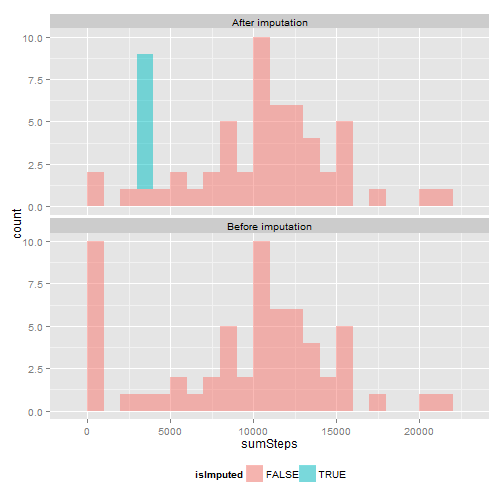
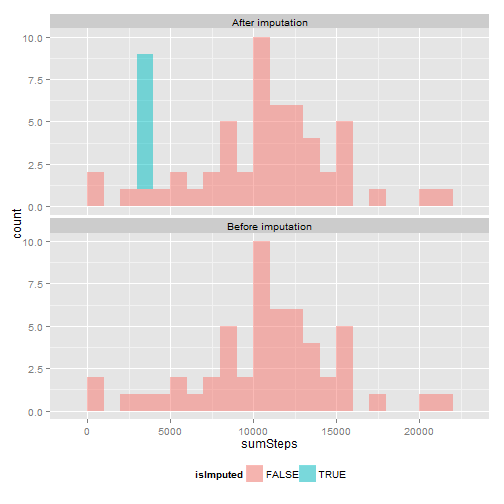
Fix treatment of missing values

Changed region(s): [[0.1488, 0.4762, 0.2083, 0.7738]]

diff --git a/PA1_template.html b/PA1_template.html
@@ -369,9 +369,19 @@ the dataset.</p>
 </blockquote>
 
 <p>Aggregate the number of steps taken each day.
-Ignore the missing values.</p>
+Days with missing values (<code>NA</code>) will have <code>NA</code> when aggregated.</p>
 
-<pre><code class="r">dtDaily &lt;- dt[, list(sumSteps = sum(steps, na.rm = TRUE)), date]
+<pre><code class="r">dtDaily &lt;- dt[, list(sumSteps = sum(steps)), date]
+head(dtDaily)
+</code></pre>
+
+<pre><code>##          date sumSteps
+## 1: 2012-10-01       NA
+## 2: 2012-10-02      126
+## 3: 2012-10-03    11352
+## 4: 2012-10-04    12116
+## 5: 2012-10-05    13294
+## 6: 2012-10-06    15420
 </code></pre>
 
 <p>Plot a histogram of the total number of steps taken each day.</p>
@@ -379,22 +389,22 @@ Ignore the missing values.</p>
 <pre><code class="r">ggplot(dtDaily, aes(x = sumSteps)) + geom_histogram(alpha = 1/2, binwidth = 1000)
 </code></pre>
 
[2 lines of base64/hex data omitted]
 
 <p>Calculate the mean and median total number of steps taken per day <strong>before imputing</strong>.</p>
 
-<pre><code class="r">tab &lt;- dtDaily[, list(n = .N, mean = mean(sumSteps, na.rm = TRUE), median = median(sumSteps, 
-    na.rm = TRUE))]
+<pre><code class="r">tab &lt;- dtDaily[, list(n = .N, nValid = sum(!is.na(sumSteps)), mean = mean(sumSteps, 
+    na.rm = TRUE), median = median(sumSteps, na.rm = TRUE))]
 print(xtable(tab), type = &quot;html&quot;, include.rownames = FALSE)
 </code></pre>
 
 <!-- html table generated in R 3.0.2 by xtable 1.7-1 package -->
 
-<!-- Thu May 15 22:05:09 2014 -->
+<!-- Thu May 15 22:39:36 2014 -->
 
 <TABLE border=1>
-<TR> <TH> n </TH> <TH> mean </TH> <TH> median </TH>  </TR>
-  <TR> <TD align="right">  61 </TD> <TD align="right"> 9354.23 </TD> <TD align="right"> 10395 </TD> </TR>
+<TR> <TH> n </TH> <TH> nValid </TH> <TH> mean </TH> <TH> median </TH>  </TR>
+  <TR> <TD align="right">  61 </TD> <TD align="right">  53 </TD> <TD align="right"> 10766.19 </TD> <TD align="right"> 10765 </TD> </TR>
    </TABLE>
 
 <p>Copy the data table <code>dtDaily</code> before imputation to be used later.</p>
@@ -448,7 +458,7 @@ print(xtable(tab), type = &quot;html&quot;, include.rownames = FALSE)
 
 <!-- html table generated in R 3.0.2 by xtable 1.7-1 package -->
 
-<!-- Thu May 15 22:05:09 2014 -->
+<!-- Thu May 15 22:39:36 2014 -->
 
 <TABLE border=1>
 <TR> <TH> isStepsMissing </TH> <TH> N </TH>  </TR>
@@ -463,7 +473,7 @@ I couldn&#39;t get Iterative robust model-based imputation (IRMI) to work; try a
 <pre><code class="r">dt &lt;- kNN(dt)
 </code></pre>
 
-<pre><code>## Time difference of -7.722 secs
+<pre><code>## Time difference of -7.711 secs
 </code></pre>
 
 <pre><code class="r"># dt &lt;- irmi(dt)
@@ -480,7 +490,7 @@ print(xtable(tab), type = &quot;html&quot;, include.rownames = FALSE)
 
 <!-- html table generated in R 3.0.2 by xtable 1.7-1 package -->
 
-<!-- Thu May 15 22:05:17 2014 -->
+<!-- Thu May 15 22:39:44 2014 -->
 
 <TABLE border=1>
 <TR> <TH> isMissing </TH> <TH> N </TH>  </TR>
@@ -512,74 +522,18 @@ dtMissingness[countMissing &gt; 0]
 
 <p>Aggregate the number of steps taken each day.</p>
 
-<pre><code class="r">dtDaily &lt;- dt[, list(sumSteps = sum(steps, na.rm = TRUE), isImputed = sum(steps_imp) &gt; 
-    0), date]
-dtDaily
+<pre><code class="r">dtDaily &lt;- dt[, list(sumSteps = sum(steps), isImputed = sum(steps_imp) &gt; 0), 
+    date]
+head(dtDaily)
 </code></pre>
 
-<pre><code>##           date sumSteps isImputed
-##  1: 2012-10-01     3036      TRUE
-##  2: 2012-10-02      126     FALSE
-##  3: 2012-10-03    11352     FALSE
-##  4: 2012-10-04    12116     FALSE
-##  5: 2012-10-05    13294     FALSE
-##  6: 2012-10-06    15420     FALSE
-##  7: 2012-10-07    11015     FALSE
-##  8: 2012-10-08     3036      TRUE
-##  9: 2012-10-09    12811     FALSE
-## 10: 2012-10-10     9900     FALSE
-## 11: 2012-10-11    10304     FALSE
-## 12: 2012-10-12    17382     FALSE
-## 13: 2012-10-13    12426     FALSE
-## 14: 2012-10-14    15098     FALSE
-## 15: 2012-10-15    10139     FALSE
-## 16: 2012-10-16    15084     FALSE
-## 17: 2012-10-17    13452     FALSE
-## 18: 2012-10-18    10056     FALSE
-## 19: 2012-10-19    11829     FALSE
-## 20: 2012-10-20    10395     FALSE
-## 21: 2012-10-21     8821     FALSE
-## 22: 2012-10-22    13460     FALSE
-## 23: 2012-10-23     8918     FALSE
-## 24: 2012-10-24     8355     FALSE
-## 25: 2012-10-25     2492     FALSE
-## 26: 2012-10-26     6778     FALSE
-## 27: 2012-10-27    10119     FALSE
-## 28: 2012-10-28    11458     FALSE
-## 29: 2012-10-29     5018     FALSE
-## 30: 2012-10-30     9819     FALSE
-## 31: 2012-10-31    15414     FALSE
-## 32: 2012-11-01     3036      TRUE
-## 33: 2012-11-02    10600     FALSE
-## 34: 2012-11-03    10571     FALSE
-## 35: 2012-11-04     3036      TRUE
-## 36: 2012-11-05    10439     FALSE
-## 37: 2012-11-06     8334     FALSE
-## 38: 2012-11-07    12883     FALSE
-## 39: 2012-11-08     3219     FALSE
-## 40: 2012-11-09     3036      TRUE
-## 41: 2012-11-10     3036      TRUE
-## 42: 2012-11-11    12608     FALSE
-## 43: 2012-11-12    10765     FALSE
-## 44: 2012-11-13     7336     FALSE
-## 45: 2012-11-14     3036      TRUE
-## 46: 2012-11-15       41     FALSE
-## 47: 2012-11-16     5441     FALSE
-## 48: 2012-11-17    14339     FALSE
-## 49: 2012-11-18    15110     FALSE
-## 50: 2012-11-19     8841     FALSE
-## 51: 2012-11-20     4472     FALSE
-## 52: 2012-11-21    12787     FALSE
-## 53: 2012-11-22    20427     FALSE
-## 54: 2012-11-23    21194     FALSE
-## 55: 2012-11-24    14478     FALSE
-## 56: 2012-11-25    11834     FALSE
-## 57: 2012-11-26    11162     FALSE
-## 58: 2012-11-27    13646     FALSE
-## 59: 2012-11-28    10183     FALSE
-## 60: 2012-11-29     7047     FALSE
-## 61: 2012-11-30     3036      TRUE
-##           date sumSteps isImputed
+<pre><code>##          date sumSteps isImputed
+## 1: 2012-10-01     3036      TRUE
+## 2: 2012-10-02      126     FALSE
+## 3: 2012-10-03    11352     FALSE
+## 4: 2012-10-04    12116     FALSE
+## 5: 2012-10-05    13294     FALSE
+## 6: 2012-10-06    15420     FALSE
 </code></pre>
 
 <p>Plot a histogram of the total number of steps taken each day <strong>after imputing</strong> and compare with the histogram <strong>before imputing</strong>.
@@ -592,27 +546,28 @@ ggplot(dtDaily, aes(x = sumSteps, fill = isImputed)) + geom_histogram(alpha = 1/
     binwidth = 1000) + facet_wrap(~status, nrow = 2) + theme(legend.position = &quot;bottom&quot;)
 </code></pre>
 
[2 lines of base64/hex data omitted]
 
 <p>Calculate the mean and median total number of steps taken per day <strong>after imputing</strong>.</p>
 
-<pre><code class="r">tab &lt;- dtDaily[, list(n = .N, mean = mean(sumSteps, na.rm = TRUE), median = median(sumSteps, 
-    na.rm = TRUE))]
+<pre><code class="r">tab &lt;- dtDaily[, list(n = .N, nValid = sum(!is.na(sumSteps)), mean = mean(sumSteps, 
+    na.rm = TRUE), median = median(sumSteps, na.rm = TRUE)), status]
 print(xtable(tab), type = &quot;html&quot;, include.rownames = FALSE)
 </code></pre>
 
 <!-- html table generated in R 3.0.2 by xtable 1.7-1 package -->
 
-<!-- Thu May 15 22:05:18 2014 -->
+<!-- Thu May 15 22:39:45 2014 -->
 
 <TABLE border=1>
-<TR> <TH> n </TH> <TH> mean </TH> <TH> median </TH>  </TR>
-  <TR> <TD align="right"> 122 </TD> <TD align="right"> 9553.31 </TD> <TD align="right"> 10395.00 </TD> </TR>
+<TR> <TH> status </TH> <TH> n </TH> <TH> nValid </TH> <TH> mean </TH> <TH> median </TH>  </TR>
+  <TR> <TD> After imputation </TD> <TD align="right">  61 </TD> <TD align="right">  61 </TD> <TD align="right"> 9752.39 </TD> <TD align="right"> 10395.00 </TD> </TR>
+  <TR> <TD> Before imputation </TD> <TD align="right">  61 </TD> <TD align="right">  53 </TD> <TD align="right"> 10766.19 </TD> <TD align="right"> 10765.00 </TD> </TR>
    </TABLE>
 
 <p>The median of the imputed values is the same as the original values where missing values were not imputed.
-However, the mean of the imputed values is greater than the original values.
-The overall impact of the imputed values is to raise the estimates of the number of steps taken each day.</p>
+However, the mean of the imputed values is <strong>less than</strong> the original values.
+The overall impact of the imputed values is to <strong>lower</strong> the estimates of the number of steps taken each day.</p>
 
 <blockquote>
 <h3>Are there differences in activity patterns between weekdays and weekends?</h3>

diff --git a/PA1_template.md b/PA1_template.md
@@ -211,11 +211,22 @@ dt
 > 2. Calculate and report the **mean** and **median** total number of steps taken per day
 
 Aggregate the number of steps taken each day.
-Ignore the missing values.
+Days with missing values (`NA`) will have `NA` when aggregated.
 
 
 ```r
-dtDaily <- dt[, list(sumSteps = sum(steps, na.rm = TRUE)), date]
+dtDaily <- dt[, list(sumSteps = sum(steps)), date]
+head(dtDaily)
+```
+
+```
+##          date sumSteps
+## 1: 2012-10-01       NA
+## 2: 2012-10-02      126
+## 3: 2012-10-03    11352
+## 4: 2012-10-04    12116
+## 5: 2012-10-05    13294
+## 6: 2012-10-06    15420
 ```
 
 
@@ -233,16 +244,16 @@ Calculate the mean and median total number of steps taken per day **before imput
 
 
 ```r
-tab <- dtDaily[, list(n = .N, mean = mean(sumSteps, na.rm = TRUE), median = median(sumSteps, 
-    na.rm = TRUE))]
+tab <- dtDaily[, list(n = .N, nValid = sum(!is.na(sumSteps)), mean = mean(sumSteps, 
+    na.rm = TRUE), median = median(sumSteps, na.rm = TRUE))]
 print(xtable(tab), type = "html", include.rownames = FALSE)
 ```
 
 <!-- html table generated in R 3.0.2 by xtable 1.7-1 package -->
-<!-- Thu May 15 22:05:09 2014 -->
+<!-- Thu May 15 22:39:36 2014 -->
 <TABLE border=1>
-<TR> <TH> n </TH> <TH> mean </TH> <TH> median </TH>  </TR>
-  <TR> <TD align="right">  61 </TD> <TD align="right"> 9354.23 </TD> <TD align="right"> 10395 </TD> </TR>
+<TR> <TH> n </TH> <TH> nValid </TH> <TH> mean </TH> <TH> median </TH>  </TR>
+  <TR> <TD align="right">  61 </TD> <TD align="right">  53 </TD> <TD align="right"> 10766.19 </TD> <TD align="right"> 10765 </TD> </TR>
    </TABLE>
 
 
@@ -305,7 +316,7 @@ print(xtable(tab), type = "html", include.rownames = FALSE)
 ```
 
 <!-- html table generated in R 3.0.2 by xtable 1.7-1 package -->
-<!-- Thu May 15 22:05:09 2014 -->
+<!-- Thu May 15 22:39:36 2014 -->
 <TABLE border=1>
 <TR> <TH> isStepsMissing </TH> <TH> N </TH>  </TR>
   <TR> <TD> TRUE </TD> <TD align="right"> 2304 </TD> </TR>
@@ -323,7 +334,7 @@ dt <- kNN(dt)
 ```
 
 ```
-## Time difference of -7.722 secs
+## Time difference of -7.711 secs
 ```
 
 ```r
@@ -343,7 +354,7 @@ print(xtable(tab), type = "html", include.rownames = FALSE)
 ```
 
 <!-- html table generated in R 3.0.2 by xtable 1.7-1 package -->
-<!-- Thu May 15 22:05:17 2014 -->
+<!-- Thu May 15 22:39:44 2014 -->
 <TABLE border=1>
 <TR> <TH> isMissing </TH> <TH> N </TH>  </TR>
   <TR> <TD> FALSE </TD> <TD align="right"> 17568 </TD> </TR>
@@ -381,75 +392,19 @@ Aggregate the number of steps taken each day.
 
 
 ```r
-dtDaily <- dt[, list(sumSteps = sum(steps, na.rm = TRUE), isImputed = sum(steps_imp) > 
-    0), date]
-dtDaily
+dtDaily <- dt[, list(sumSteps = sum(steps), isImputed = sum(steps_imp) > 0), 
+    date]
+head(dtDaily)
 ```
 
 ```
-##           date sumSteps isImputed
-##  1: 2012-10-01     3036      TRUE
-##  2: 2012-10-02      126     FALSE
-##  3: 2012-10-03    11352     FALSE
-##  4: 2012-10-04    12116     FALSE
-##  5: 2012-10-05    13294     FALSE
-##  6: 2012-10-06    15420     FALSE
-##  7: 2012-10-07    11015     FALSE
-##  8: 2012-10-08     3036      TRUE
-##  9: 2012-10-09    12811     FALSE
-## 10: 2012-10-10     9900     FALSE
-## 11: 2012-10-11    10304     FALSE
-## 12: 2012-10-12    17382     FALSE
-## 13: 2012-10-13    12426     FALSE
-## 14: 2012-10-14    15098     FALSE
-## 15: 2012-10-15    10139     FALSE
-## 16: 2012-10-16    15084     FALSE
-## 17: 2012-10-17    13452     FALSE
-## 18: 2012-10-18    10056     FALSE
-## 19: 2012-10-19    11829     FALSE
-## 20: 2012-10-20    10395     FALSE
-## 21: 2012-10-21     8821     FALSE
-## 22: 2012-10-22    13460     FALSE
-## 23: 2012-10-23     8918     FALSE
-## 24: 2012-10-24     8355     FALSE
-## 25: 2012-10-25     2492     FALSE
-## 26: 2012-10-26     6778     FALSE
-## 27: 2012-10-27    10119     FALSE
-## 28: 2012-10-28    11458     FALSE
-## 29: 2012-10-29     5018     FALSE
-## 30: 2012-10-30     9819     FALSE
-## 31: 2012-10-31    15414     FALSE
-## 32: 2012-11-01     3036      TRUE
-## 33: 2012-11-02    10600     FALSE
-## 34: 2012-11-03    10571     FALSE
-## 35: 2012-11-04     3036      TRUE
-## 36: 2012-11-05    10439     FALSE
-## 37: 2012-11-06     8334     FALSE
-## 38: 2012-11-07    12883     FALSE
-## 39: 2012-11-08     3219     FALSE
-## 40: 2012-11-09     3036      TRUE
-## 41: 2012-11-10     3036      TRUE
-## 42: 2012-11-11    12608     FALSE
-## 43: 2012-11-12    10765     FALSE
-## 44: 2012-11-13     7336     FALSE
-## 45: 2012-11-14     3036      TRUE
-## 46: 2012-11-15       41     FALSE
-## 47: 2012-11-16     5441     FALSE
-## 48: 2012-11-17    14339     FALSE
-## 49: 2012-11-18    15110     FALSE
-## 50: 2012-11-19     8841     FALSE
-## 51: 2012-11-20     4472     FALSE
-## 52: 2012-11-21    12787     FALSE
-## 53: 2012-11-22    20427     FALSE
-## 54: 2012-11-23    21194     FALSE
-## 55: 2012-11-24    14478     FALSE
-## 56: 2012-11-25    11834     FALSE
-## 57: 2012-11-26    11162     FALSE
-## 58: 2012-11-27    13646     FALSE
-## 59: 2012-11-28    10183     FALSE
-## 60: 2012-11-29     7047     FALSE
-## 61: 2012-11-30     3036      TRUE
-##           date sumSteps isImputed
+##          date sumSteps isImputed
+## 1: 2012-10-01     3036      TRUE
+## 2: 2012-10-02      126     FALSE
+## 3: 2012-10-03    11352     FALSE
+## 4: 2012-10-04    12116     FALSE
+## 5: 2012-10-05    13294     FALSE
+## 6: 2012-10-06    15420     FALSE
 ```
 
 
@@ -472,22 +427,23 @@ Calculate the mean and median total number of steps taken per day **after imputi
 
 
 ```r
-tab <- dtDaily[, list(n = .N, mean = mean(sumSteps, na.rm = TRUE), median = median(sumSteps, 
-    na.rm = TRUE))]
+tab <- dtDaily[, list(n = .N, nValid = sum(!is.na(sumSteps)), mean = mean(sumSteps, 
+    na.rm = TRUE), median = median(sumSteps, na.rm = TRUE)), status]
 print(xtable(tab), type = "html", include.rownames = FALSE)
 ```
 
 <!-- html table generated in R 3.0.2 by xtable 1.7-1 package -->
-<!-- Thu May 15 22:05:18 2014 -->
+<!-- Thu May 15 22:39:45 2014 -->
 <TABLE border=1>
-<TR> <TH> n </TH> <TH> mean </TH> <TH> median </TH>  </TR>
-  <TR> <TD align="right"> 122 </TD> <TD align="right"> 9553.31 </TD> <TD align="right"> 10395.00 </TD> </TR>
+<TR> <TH> status </TH> <TH> n </TH> <TH> nValid </TH> <TH> mean </TH> <TH> median </TH>  </TR>
+  <TR> <TD> After imputation </TD> <TD align="right">  61 </TD> <TD align="right">  61 </TD> <TD align="right"> 9752.39 </TD> <TD align="right"> 10395.00 </TD> </TR>
+  <TR> <TD> Before imputation </TD> <TD align="right">  61 </TD> <TD align="right">  53 </TD> <TD align="right"> 10766.19 </TD> <TD align="right"> 10765.00 </TD> </TR>
    </TABLE>
 
 
 The median of the imputed values is the same as the original values where missing values were not imputed.
-However, the mean of the imputed values is greater than the original values.
-The overall impact of the imputed values is to raise the estimates of the number of steps taken each day.
+However, the mean of the imputed values is **less than** the original values.
+The overall impact of the imputed values is to **lower** the estimates of the number of steps taken each day.
 
 
 > ### Are there differences in activity patterns between weekdays and weekends?
